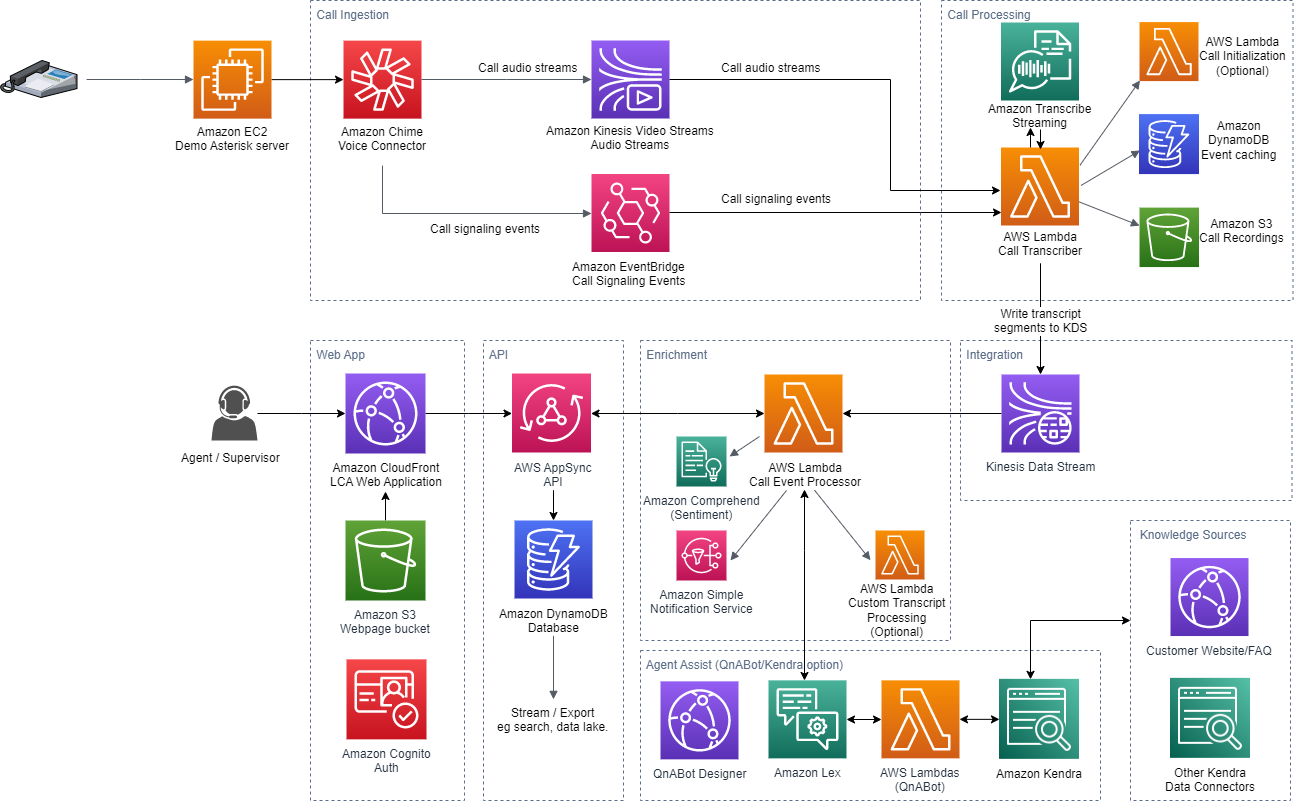
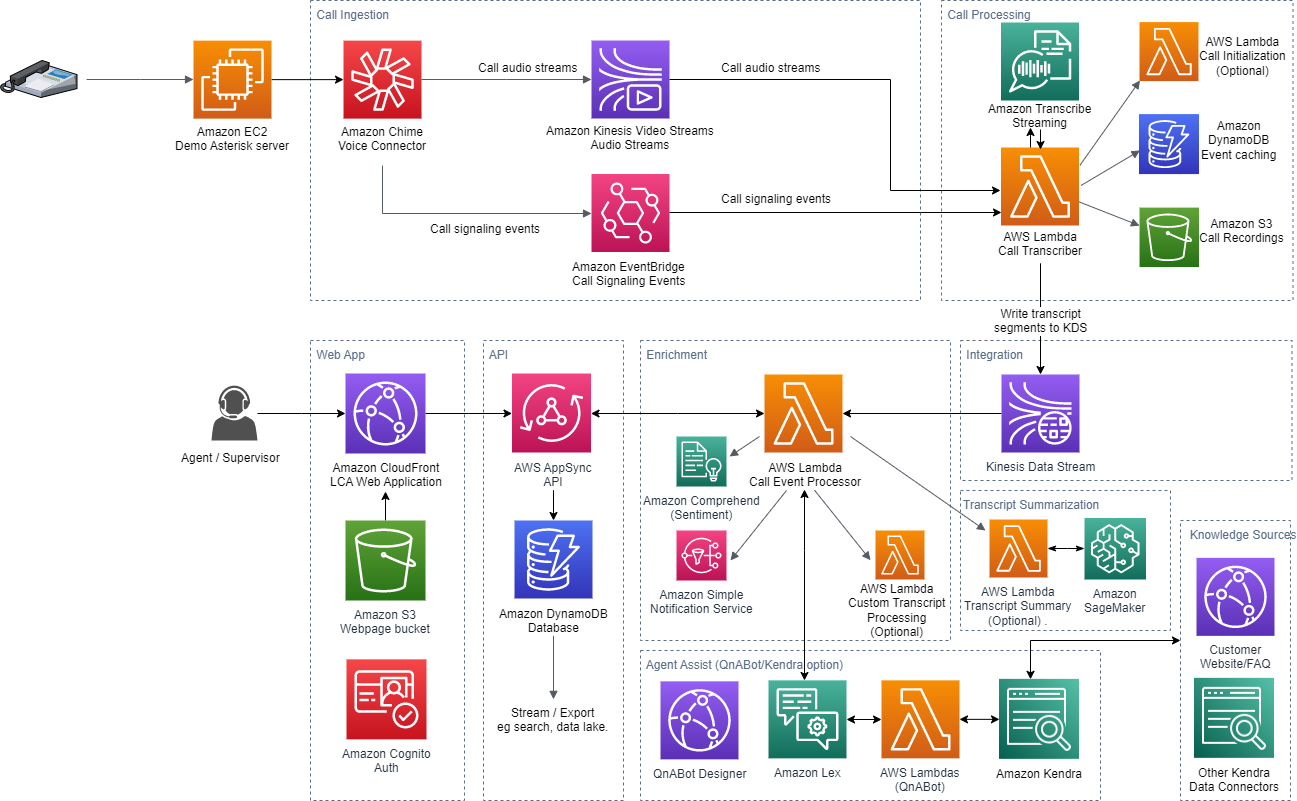
Updates to diagrams and README for v0.7.0

diff --git a/README.md b/README.md
@@ -2,7 +2,7 @@
 *Companion AWS blog post: [Live call analytics and agent assist for your contact center with Amazon language AI services](http://www.amazon.com/live-call-analytics)*
 ## Overview
 
-*Update September 2022 (v0.6.0) – Now supports real-time Detected Issues, real-time Call Categories, real-time Supervisor Alerts and integration with the companion Post Call Analytics (PCA) solution v0.4.0 or later, using the new [Amazon Transcribe Real-time Call Analytics](https://docs.aws.amazon.com/transcribe/latest/dg/call-analytics-streaming.html) service.*  
+*Update February 2023 (v0.7.0) – This release introduces (experimental) generative transcript summarization to provide a short paragraph with a synopsis of each completed call; use the built-in summarization model or experiment with custom language models or APIs of your choice. Also, with this update you can now choose to view call transcriptions translated to a second language of your choice using Amazon Translate, for live or completed calls. Other new features include: a utility Lambda function that returns the transcript for any in-progress or completed call, a UI selector that allows agents to disable display of their own voice transcription, a new download button on the UI Calls page, and more! See New features.*  
 *See [CHANGELOG](./CHANGELOG.md) for latest features and fixes.*
 
 Your contact center connects your business to your community, enabling customers to order products, callers to request support, clients to make appointments, and much more. When calls go well, callers retain a positive image of your brand, and are likely to return and recommend you to others. And the converse, of course, is also true.
@@ -10,9 +10,9 @@ Your contact center connects your business to your community, enabling customers
 Naturally, you want to do what you can to ensure that your callers have a good experience. There are two aspects to this:
 
 - **Help supervisors assess the quality of your caller’s experiences in real time** – For example, your supervisors need to know if initially unhappy callers become happier as the call progresses. And if not, why? What actions can be taken, before the call ends, to assist the agent to improve the customer experience for calls that aren’t going well?
-- **Help agents optimize the quality of your caller’s experiences** – For example, can you deploy live call transcription or AI powered Agent Assistance? This removes the need for your agents to take notes, and provides them with contextually relevant information and guidance during calls, freeing them to focus more attention on providing positive customer interactions.
+- **Help agents optimize the quality of your caller’s experiences** – For example, can you deploy live call transcription, call summarization, or AI powered Agent Assistance? This removes the need for your agents to take notes, and provides them with contextually relevant information and guidance during calls, freeing them to focus more attention on providing positive customer interactions.
 
-Amazon machine learning services like Amazon Transcribe and Amazon Comprehend provide feature-rich APIs that you can use to transcribe and extract insights from your contact center audio at scale. Amazon Lex provides conversational AI capabilities that can capture intents and context from conversations, and Amazon Kendra offers intelligent search features that can provide useful information to agents based on callers' needs. Although you could build your own custom call analytics solution using these services, that requires time and resources. You figure that someone must have done this before, and that with luck you’ll find a solution that you can re-use.
+Amazon machine learning services like Amazon Transcribe, Amazon Comprehend and Amazon SageMaker provide feature-rich APIs that you can use to transcribe and extract insights from your contact center audio at scale. Amazon Lex provides conversational AI capabilities that can capture intents and context from conversations, and Amazon Kendra offers intelligent search features that can provide useful information to agents based on callers' needs. Although you could build your own custom call analytics solution using these services, that requires time and resources. You figure that someone must have done this before, and that with luck you’ll find a solution that you can re-use.
 
 Contact Lens for Amazon Connect provides real-time supervisor and agent assist features that could be just what you need, but you may not yet be using Amazon Connect. You need a solution that will also work with your existing contact center.
 
@@ -31,13 +31,13 @@ When a new caller or agent Kinesis Video stream is initiated, an event is fired 
 
 Each call processing session runs until the call ends. Any session that lasts longer than the maximum duration of an AWS Lambda function invocation (15 minutes) is automatically and seamlessly transitioned to a new ‘chained’ invocation of the same function, while maintaining a continuous transcription session with Amazon Transcribe. This function chaining repeats as needed until the call ends. At the end of the call the function creates a stereo recording file in Amazon S3.
 
-Another Lambda function, the Call Event Processor, fed by Kinesis Data Streams, processes and enriches call metadata and transcription segments. The Call Event Processor integrates with the (optional) Agent Assist services. By default, LCA agent assist is powered by Amazon Lex and Amazon Kendra using the open source QnABot on AWS solution, though other options are available as discussed in the [blog post](http://www.amazon.com/live-call-analytics).  
+Another Lambda function, the Call Event Processor, fed by Kinesis Data Streams, processes and enriches call metadata and transcription segments. The Call Event Processor integrates with the (optional) Agent Assist services. By default, LCA agent assist is powered by Amazon Lex and Amazon Kendra using the open source QnABot on AWS solution, though other options are available as discussed in the [blog post](http://www.amazon.com/live-call-analytics).The Call Event Processor also invokes the (optional) Transcript Summarization lambda when the call ends, to generate a summary of the call from the full transcript.
   
 The Call Event Processor function interfaces with AWS AppSync to persist changes (mutations) in DynamoDB and to send real-time updates to logged in web clients.
 
 The LCA web UI assets are hosted on Amazon S3 and served via Amazon CloudFront. Authentication is provided by Amazon Cognito. In demo mode, user identities are configured in an Amazon Cognito user pool. In a production setting, you would likely configure Amazon Cognito to integrate with your existing identity provider (IdP) so authorized users can log in with their corporate credentials.
 
-When the user is authenticated, the web application establishes a secure GraphQL connection to the AWS AppSync API, and subscribes to receive real-time events such as new calls and call status changes for the calls list page, and new or updated transcription segments, agent assist messages, and computed analytics for the call details page.
+When the user is authenticated, the web application establishes a secure GraphQL connection to the AWS AppSync API, and subscribes to receive real-time events such as new calls and call status changes for the calls list page, and new or updated transcription segments, agent assist messages, and computed analytics for the call details page. When translation is enabled, the web application also interacts securely with Amazon Translate to translate the call transcription into the selected language
 
 The entire processing flow, from ingested speech to live webpage updates, is event driven, and so the end-to-end latency is small—typically just a few seconds.
 
@@ -118,24 +118,27 @@ US West (Oregon) |	us-west-2 | [![Launch Stack](https://cdn.rawgit.com/buildkite
     21. `Enable Sentiment Analysis` - Enable or disable display of sentiment analysis.
     22. `Lambda Hook Function ARN for Custom Transcript Segment Processing (existing)` - If present, the specified Lambda function is invoked by the LCA Call Event Processor Lambda function for each 
       transcript segment. See [TranscriptLambdaHookFunction.md](./lca-ai-stack/TranscriptLambdaHookFunction.md).
-    23. `Lambda Hook Function Mode Non-Partial only` - Specifies if Transcript Lambda Hook Function (if specified) is invoked for Non-Partial transcript segments only (true), or for both Partial and Non-Partial transcript segments (false).  
+    23. `Lambda Hook Function Mode Non-Partial only` - Specifies if Transcript Lambda Hook Function (if specified) is invoked for Non-Partial transcript segments only (true), or for both Partial and Non-Partial transcript segments (false). 
+    24. `End of Call Transcript Summary` - Choose SAGEMAKER to automatically deploy a state of the art summarization model. Alternatively, choose LAMBDA to use your own Lambda function to generate summaries using other models, or choose DISABLED if you are not interested in exploring the new Transcript Summarization feature. 
+    25. `Initial Instance Count for Summarization SageMaker Endpoint` - When SAGEMAKER option is chosen (above) enter 0 for a SageMaker Serverless Inference endpoint, or 1 or greater for a provisioned endpoint with the specified number of instances. See [Transcript Summarization](./lca-ai-stack/TranscriptSummarization.md) for more details.
+    26. `Lambda Hook Function ARN for Custom End of Call Processing (existing)` - When LAMBDA option is chosen (above) enter the ARN for your custom summarization Lambda function. See [Transcript Summarization](./lca-ai-stack/TranscriptSummarization.md) for more details.
     **Download locations**  
-    24. `Demo Asterisk Download URL` - (Optional) URL used to download the Asterisk PBX software
-    25. `Demo Asterisk Agent Audio URL` - (Optional)
+    27. `Demo Asterisk Download URL` - (Optional) URL used to download the Asterisk PBX software
+    28. `Demo Asterisk Agent Audio URL` - (Optional)
     URL for audio (agent.wav) file download for demo Asterisk server. Audio file is automatically played when an agent is not connected with a softphone  
     **Amazon CloudFront Configuration**  
-    26. `CloudFront Price Class` - The CloudFront price class. See the [CloudFront Pricing](https://aws.amazon.com/cloudfront/pricing/) for a description of each price class.
-    27. `CloudFront Allowed Geographies` - (Optional) Comma separated list of two letter country codes (uppercase ISO 3166-1) that are allowed to access the web user interface via CloudFront. For example: US,CA. Leave empty if you do not want geo restrictions to be applied. For details, see: [Restricting the Geographic Distribution of your Content](https://docs.aws.amazon.com/AmazonCloudFront/latest/DeveloperGuide/georestrictions.html).  
+    29. `CloudFront Price Class` - The CloudFront price class. See the [CloudFront Pricing](https://aws.amazon.com/cloudfront/pricing/) for a description of each price class.
+    30. `CloudFront Allowed Geographies` - (Optional) Comma separated list of two letter country codes (uppercase ISO 3166-1) that are allowed to access the web user interface via CloudFront. For example: US,CA. Leave empty if you do not want geo restrictions to be applied. For details, see: [Restricting the Geographic Distribution of your Content](https://docs.aws.amazon.com/AmazonCloudFront/latest/DeveloperGuide/georestrictions.html).  
     **Record retention**  
-    28. `Record Expiration In Days` - The length of time, in days, that LCA will retain call records. Records and transcripts that are older than this number of days are permanently deleted.  
+    31. `Record Expiration In Days` - The length of time, in days, that LCA will retain call records. Records and transcripts that are older than this number of days are permanently deleted.  
     **User Experience**  
-    29. `Category Alert Regular Expression` - If using the 'analytics' Transcribe API Mode, this regular expression will be used to show an alert in red in the web user interface if it matches a call category. This defaults to matching all categories.  
+    32. `Category Alert Regular Expression` - If using the 'analytics' Transcribe API Mode, this regular expression will be used to show an alert in red in the web user interface if it matches a call category. This defaults to matching all categories.  
     **Post Call Analytics (PCA) Integration**  
-    30. `PCA InputBucket` - (Optional) Value of PCA stack "InputBucket". Effective if Transcribe API Mode parameter is 'analytics'.
-    31. `PCA InputBucket Transcript prefix` - Value of PCA stack "InputBucketTranscriptPrefix".
-    32. `PCA InputBucket Playback AudioFile prefix` - Value of PCA stack "InputBucketPlaybackAudioPrefix".
-    33. `PcaWebAppURL` - (Optional) Value of PCA stack "WebAppURL" - allows PCA UI to be launched from LCA UI.
-    34. `PCA Web App Call Path Prefix` - PCA path prefix for call detail pages.
+    33. `PCA InputBucket` - (Optional) Value of PCA stack "InputBucket". Effective if Transcribe API Mode parameter is 'analytics'.
+    34. `PCA InputBucket Transcript prefix` - Value of PCA stack "InputBucketTranscriptPrefix".
+    35. `PCA InputBucket Playback AudioFile prefix` - Value of PCA stack "InputBucketPlaybackAudioPrefix".
+    36. `PcaWebAppURL` - (Optional) Value of PCA stack "WebAppURL" - allows PCA UI to be launched from LCA UI.
+    37. `PCA Web App Call Path Prefix` - PCA path prefix for call detail pages.
 5. After reviewing, check the blue box for creating IAM resources.
 6. Choose **Create stack**.  This will take ~15 minutes to complete.
 7. Once the CloudFormation deployment is complete,
@@ -176,11 +179,16 @@ You can test this solution if you installed the demo asterisk server during depl
 4. You will see the phone call show up on the LCA web page as follows ![CallList](./images/call-list-with-categories-and-alerts.png)
 5. Try the built-in agent assist demo using the [agent assist demo script](lca-agentassist-setup-stack/agent-assist-demo-script.md). For more detail and tutorials on Agent Assist, see [Agent Assist README](lca-agentassist-setup-stack/README.md)
 
+For automated testing, see
+1. Test scripts for similating phone calls. See [Asterisk Test Scripts](./lca-chimevc-stack/asterisk-test-scripts/README.md).
+2. LCA client utility to make it easier to test Call Event Processors and LCA UI without having to actually make a phone call. See [LCA Client](./utilities/lca-client/README.md).
+
 ## Additional Customization options
 - [SIPREC Call Initialization Lambda Hook](./lca-chimevc-stack/LambdaHookFunction.md)
 - [Delay start of call processing](./lca-chimevc-stack/StartCallProcessingEvent.md)
 - [Assign an AgentID to a call](./lca-chimevc-stack/SettingAgentId.md)
 - [Customize transcript processing](./lca-ai-stack/TranscriptLambdaHookFunction.md)
+- [Customize transcript summarization](./lca-ai-stack/TranscriptSummarization.md)
 
 ## Post Call Analytics: Companion solution
 Our companion solution, Post Call Analytics (PCA), offers additional insights and analytics capabilities by using the Amazon Transcribe Call Analytics batch API to detect common issues, interruptions, silences, speaker loudness, call categories, and more. Unlike LCA, which transcribes and analyzes streaming audio in real time, PCA analyzes your calls after the call has ended. The new Amazon Transcribe Real-time Call Analytics service provides post-call analytics output from your streaming sessions just a few minutes after the call has ended. LCA can now send this post-call analytics data to the latest version of PCA (v0.4.0) to provide analytics visualizations for your streaming sessions without needing to transcribe the audio a second time. Configure LCA to integrate with PCA v0.4.0 or later using the LCA CloudFormation tempate parameters labeled **Post Call Analytics (PCA) Integration**. Use the two solutions together to get the best of both worlds. For more information, see [Post call analytics for your contact center with Amazon language AI services](https://www.amazon.com/post-call-analytics).

diff --git a/lca-ai-stack/TranscriptSummarization.md b/lca-ai-stack/TranscriptSummarization.md
@@ -1,6 +1,6 @@
 # Transcript Summarization (Experimental Feature)
 
-LCA can now generate and display a short abstractive call transcript summary (rendered in markdown) in addition to the existing extractive summarization from Transcribe Call Analytics. 
+LCA can now generate and display a short abstractive call transcript summary (rendered in markdown) in addition to the existing extractive summarization from Real Time Transcribe Call Analytics. 
 
 Currently the transcript summarization feature is 'experimental'. In later releases we may adopt different techniques and add capabilities based on feedback from early adoption. We encourage experimentation, and feedback!
   
